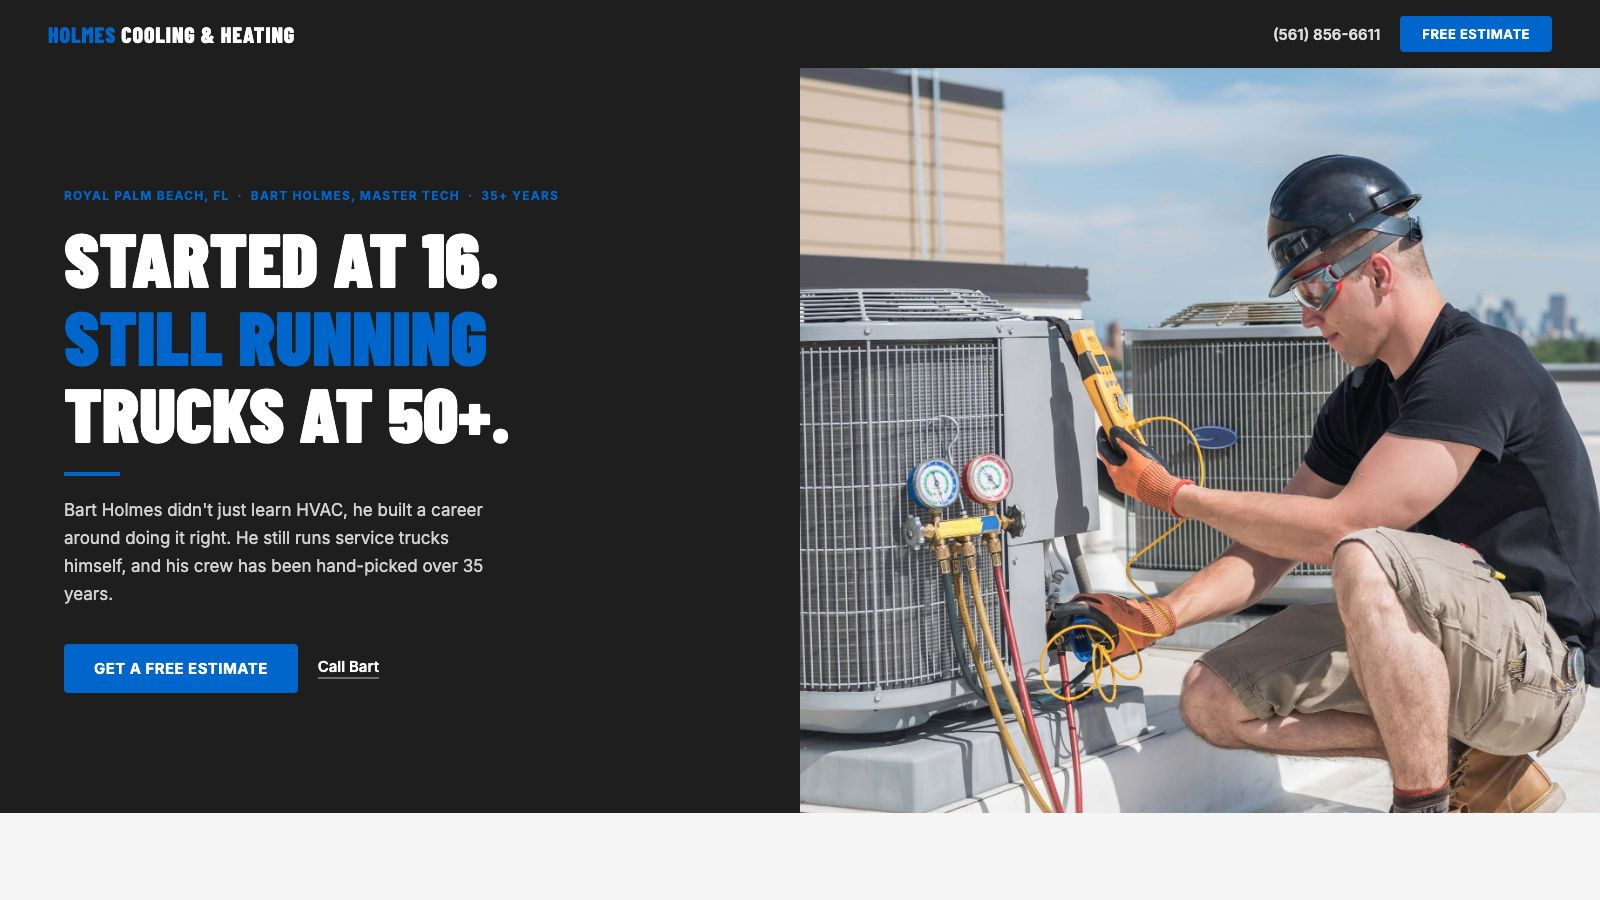
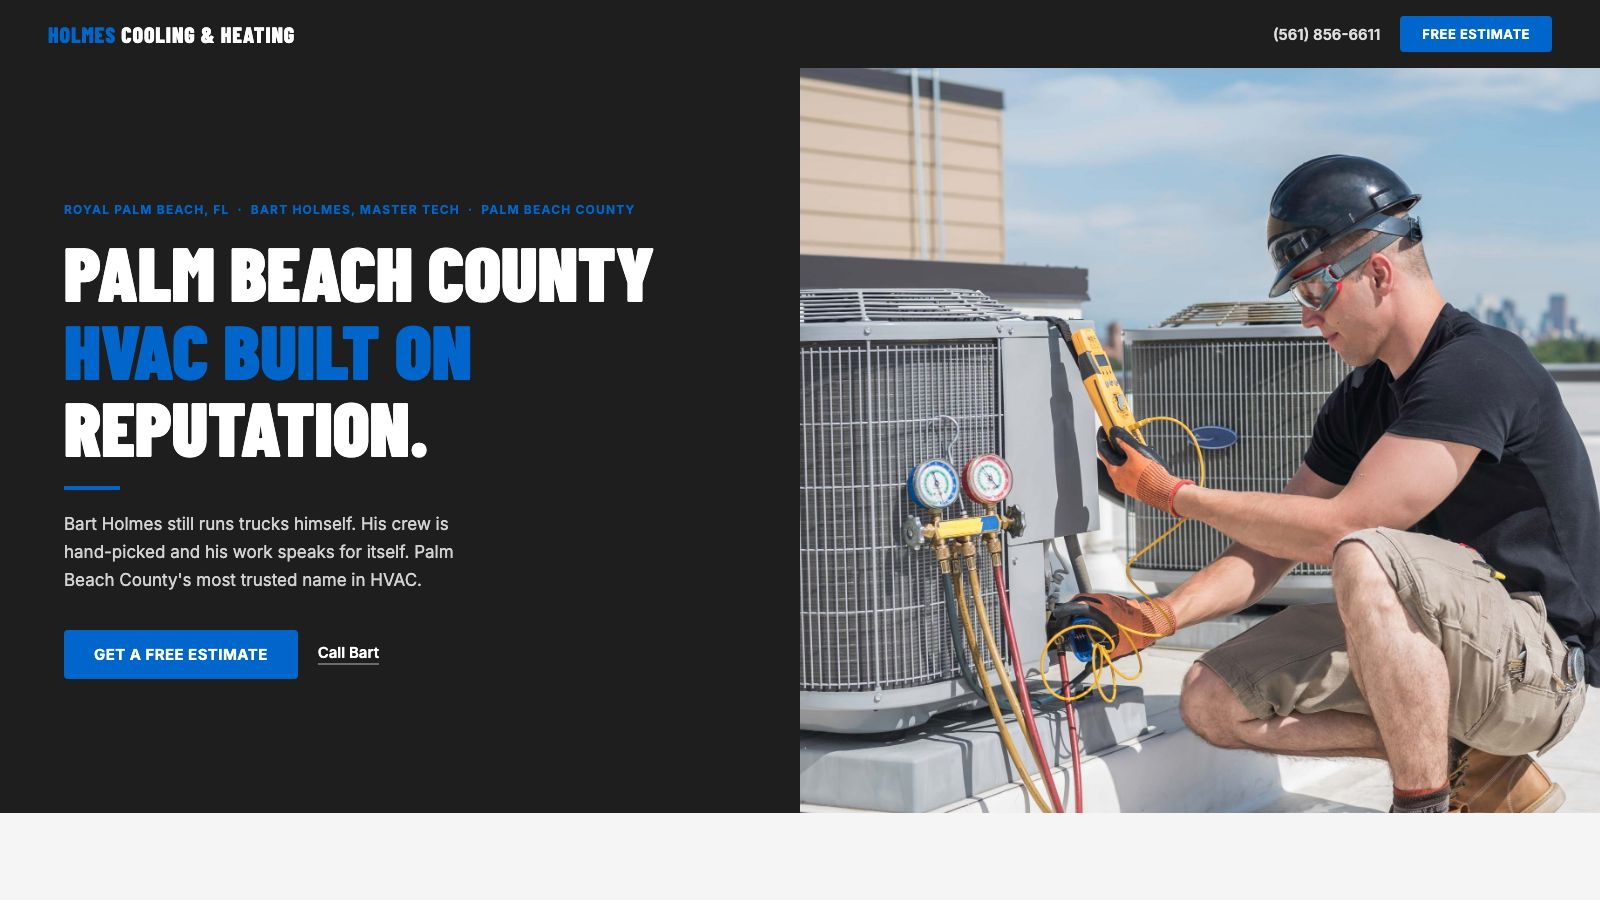
Redo 4 HVAC heroes: clean copy (no review counts/ages), full-height viewport, updated trust bars

Changed region(s): [[0.0312, 0.1867, 0.4062, 0.7778]]

diff --git a/p/holmes-cooling-heating/index.html b/p/holmes-cooling-heating/index.html
@@ -3,7 +3,7 @@
 <head>
   <meta charset="UTF-8">
   <meta name="viewport" content="width=device-width, initial-scale=1.0">
-  <title>Holmes Cooling & Heating | Royal Palm Beach, FL | 35+ Years HVAC Service</title>
+  <title>Holmes Cooling & Heating | Royal Palm Beach, FL | HVAC Service</title>
   <link rel="preconnect" href="https://fonts.googleapis.com">
   <link rel="preconnect" href="https://fonts.gstatic.com" crossorigin>
   <link rel="preload" as="style" href="https://fonts.googleapis.com/css2?family=Barlow+Condensed:wght@400;600;700;800;900&family=Inter:wght@400;500;600;700&display=swap">
@@ -31,7 +31,7 @@
     .nav-phone { color: rgba(255,255,255,0.85); font-size: 15px; font-weight: 600; text-decoration: none; }
     .nav-cta { background: var(--blue); color: var(--white); font-weight: 700; font-size: 13px; padding: 10px 22px; border-radius: 4px; text-decoration: none; text-transform: uppercase; letter-spacing: 0.04em; }
 
-    .hero { display: grid; grid-template-columns: 1fr 1fr; min-height: calc(100vh - 68px); max-height: 832px; }
+    .hero { display: grid; grid-template-columns: 1fr 1fr; height: calc(100vh - 68px); }
     .hero-text { display: flex; flex-direction: column; justify-content: center; padding: 64px 52px 64px 64px; background: var(--charcoal); }
     .hero-eyebrow { font-size: 12px; font-weight: 700; letter-spacing: 0.1em; text-transform: uppercase; color: var(--blue); margin-bottom: 16px; }
     .hero-h1 { font-family: 'Barlow Condensed', sans-serif; font-size: clamp(50px, 5vw, 76px); font-weight: 900; line-height: 1.02; color: var(--white); margin-bottom: 20px; text-transform: uppercase; }
@@ -48,12 +48,12 @@
     .trust-bar { background: var(--blue); display: grid; grid-template-columns: repeat(4, 1fr); }
     .trust-item { padding: 26px 28px; text-align: center; border-right: 1px solid rgba(255,255,255,0.2); }
     .trust-item:last-child { border-right: none; }
-    .trust-number { font-family: 'Barlow Condensed', sans-serif; font-size: 38px; font-weight: 900; color: var(--white); line-height: 1; margin-bottom: 4px; }
+    .trust-number { font-family: 'Barlow Condensed', sans-serif; font-size: 30px; font-weight: 900; color: var(--white); line-height: 1; margin-bottom: 4px; }
     .trust-label { font-size: 11px; font-weight: 700; letter-spacing: 0.08em; text-transform: uppercase; color: rgba(255,255,255,0.8); }
 
     @media (max-width: 768px) {
       nav { padding: 0 20px; }
-      .hero { grid-template-columns: 1fr; min-height: auto; max-height: none; }
+      .hero { grid-template-columns: 1fr; height: auto; min-height: 100vh; }
       .hero-text { padding: 48px 24px 32px; }
       .hero-img { height: 280px; }
       .trust-bar { grid-template-columns: repeat(2, 1fr); }
@@ -72,11 +72,11 @@
 
 <section class="hero">
   <div class="hero-text">
-    <div class="hero-eyebrow">Royal Palm Beach, FL &nbsp;·&nbsp; Bart Holmes, Master Tech &nbsp;·&nbsp; 35+ Years</div>
-    <h1 class="hero-h1">Started at 16.<br><em>Still Running</em><br>Trucks at 50+.</h1>
+    <div class="hero-eyebrow">Royal Palm Beach, FL &nbsp;·&nbsp; Bart Holmes, Master Tech &nbsp;·&nbsp; Palm Beach County</div>
+    <h1 class="hero-h1">Palm Beach County<br><em>HVAC Built on</em><br>Reputation.</h1>
     <div class="hero-rule"></div>
     <p class="hero-sub">
-      Bart Holmes didn't just learn HVAC, he built a career around doing it right. He still runs service trucks himself, and his crew has been hand-picked over 35 years.
+      Bart Holmes still runs trucks himself. His crew is hand-picked and his work speaks for itself. Palm Beach County's most trusted name in HVAC.
     </p>
     <div class="hero-actions">
       <a href="tel:5618566611" class="btn-primary">Get a Free Estimate</a>
@@ -89,9 +89,9 @@
 </section>
 
 <div class="trust-bar">
-  <div class="trust-item"><div class="trust-number">35+</div><div class="trust-label">Years Experience</div></div>
   <div class="trust-item"><div class="trust-number">Master</div><div class="trust-label">Technician Certified</div></div>
-  <div class="trust-item"><div class="trust-number">Palm</div><div class="trust-label">Beach County Local</div></div>
+  <div class="trust-item"><div class="trust-number">Owner</div><div class="trust-label">Still Runs Trucks</div></div>
+  <div class="trust-item"><div class="trust-number">Local</div><div class="trust-label">Palm Beach County</div></div>
   <div class="trust-item"><div class="trust-number">100%</div><div class="trust-label">Licensed &amp; Insured</div></div>
 </div>
 

diff --git a/p/helena-air-conditioning/index.html b/p/helena-air-conditioning/index.html
@@ -3,7 +3,7 @@
 <head>
   <meta charset="UTF-8">
   <meta name="viewport" content="width=device-width, initial-scale=1.0">
-  <title>Helena Air Conditioning & Heating | Pompano Beach, FL | Owner-Answered AC Service</title>
+  <title>Helena Air Conditioning & Heating | Pompano Beach, FL | Owner-Operated AC Service</title>
   <link rel="preconnect" href="https://fonts.googleapis.com">
   <link rel="preconnect" href="https://fonts.gstatic.com" crossorigin>
   <link rel="preload" as="style" href="https://fonts.googleapis.com/css2?family=Raleway:wght@400;600;700;800;900&family=Inter:wght@400;500;600&display=swap">
@@ -31,7 +31,7 @@
     .nav-phone { color: rgba(255,255,255,0.85); font-size: 15px; font-weight: 600; text-decoration: none; }
     .nav-cta { background: var(--amber); color: var(--white); font-weight: 700; font-size: 13px; padding: 10px 22px; border-radius: 3px; text-decoration: none; text-transform: uppercase; letter-spacing: 0.05em; }
 
-    .hero { display: grid; grid-template-columns: 1fr 1fr; min-height: calc(100vh - 68px); max-height: 832px; }
+    .hero { display: grid; grid-template-columns: 1fr 1fr; height: calc(100vh - 68px); }
     .hero-text { display: flex; flex-direction: column; justify-content: center; padding: 64px 52px 64px 64px; background: var(--ivory); }
     .hero-eyebrow { font-family: 'Raleway', sans-serif; font-size: 12px; font-weight: 700; letter-spacing: 0.12em; text-transform: uppercase; color: var(--burgundy); opacity: 0.55; margin-bottom: 16px; }
     .hero-h1 { font-family: 'Raleway', sans-serif; font-size: clamp(42px, 4.2vw, 64px); font-weight: 900; line-height: 1.08; color: var(--burgundy); margin-bottom: 20px; }
@@ -49,12 +49,12 @@
     .trust-bar { background: var(--burgundy); display: grid; grid-template-columns: repeat(4, 1fr); }
     .trust-item { padding: 26px 28px; text-align: center; border-right: 1px solid rgba(255,255,255,0.1); }
     .trust-item:last-child { border-right: none; }
-    .trust-number { font-family: 'Raleway', sans-serif; font-size: 36px; font-weight: 900; color: var(--amber); line-height: 1; margin-bottom: 4px; }
+    .trust-number { font-family: 'Raleway', sans-serif; font-size: 28px; font-weight: 900; color: var(--amber); line-height: 1; margin-bottom: 4px; }
     .trust-label { font-size: 11px; font-weight: 700; letter-spacing: 0.08em; text-transform: uppercase; color: rgba(255,255,255,0.65); }
 
     @media (max-width: 768px) {
       nav { padding: 0 20px; }
-      .hero { grid-template-columns: 1fr; min-height: auto; max-height: none; }
+      .hero { grid-template-columns: 1fr; height: auto; min-height: 100vh; }
       .hero-text { padding: 48px 24px 32px; }
       .hero-img { height: 280px; }
       .trust-bar { grid-template-columns: repeat(2, 1fr); }
@@ -74,10 +74,10 @@
 <section class="hero">
   <div class="hero-text">
     <div class="hero-eyebrow">Pompano Beach, FL &nbsp;·&nbsp; Owner Operated &nbsp;·&nbsp; Broward County</div>
-    <h1 class="hero-h1">Pompano's AC<br><em>You Can Actually</em><br>Get on the Phone</h1>
+    <h1 class="hero-h1">Pompano Beach<br><em>AC &amp; Heating</em><br>Owner Operated.</h1>
     <div class="hero-divider"></div>
     <p class="hero-sub">
-      The owner picks up every call personally. Customers mention it in review after review because it matters. Same-day response, transparent pricing, no surprises.
+      The owner picks up every call personally. Same-day response, transparent pricing, no surprises. That's why customers keep coming back.
     </p>
     <div class="hero-actions">
       <a href="tel:7543677237" class="btn-primary">Get a Free Estimate</a>
@@ -90,9 +90,9 @@
 </section>
 
 <div class="trust-bar">
-  <div class="trust-item"><div class="trust-number">5.0★</div><div class="trust-label">HomeAdvisor</div></div>
-  <div class="trust-item"><div class="trust-number">A+</div><div class="trust-label">BBB Rating</div></div>
-  <div class="trust-item"><div class="trust-number">3</div><div class="trust-label">Counties Served</div></div>
+  <div class="trust-item"><div class="trust-number">Owner</div><div class="trust-label">Operated</div></div>
+  <div class="trust-item"><div class="trust-number">Same</div><div class="trust-label">Day Service</div></div>
+  <div class="trust-item"><div class="trust-number">Free</div><div class="trust-label">Estimates</div></div>
   <div class="trust-item"><div class="trust-number">100%</div><div class="trust-label">Licensed &amp; Insured</div></div>
 </div>
 

diff --git a/p/mechanical-cooling-ac/index.html b/p/mechanical-cooling-ac/index.html
@@ -31,7 +31,7 @@
     .nav-phone { color: rgba(255,255,255,0.85); font-size: 15px; font-weight: 600; text-decoration: none; }
     .nav-cta { background: var(--teal); color: var(--gunmetal); font-weight: 700; font-size: 13px; padding: 10px 22px; border-radius: 4px; text-decoration: none; text-transform: uppercase; letter-spacing: 0.04em; }
 
-    .hero { display: grid; grid-template-columns: 1fr 1fr; min-height: calc(100vh - 68px); max-height: 832px; }
+    .hero { display: grid; grid-template-columns: 1fr 1fr; height: calc(100vh - 68px); }
     .hero-text { display: flex; flex-direction: column; justify-content: center; padding: 64px 52px 64px 64px; background: var(--gunmetal); }
     .hero-eyebrow { font-size: 12px; font-weight: 700; letter-spacing: 0.1em; text-transform: uppercase; color: var(--teal); margin-bottom: 16px; }
     .hero-h1 { font-family: 'Nunito Sans', sans-serif; font-size: clamp(44px, 4.4vw, 68px); font-weight: 900; line-height: 1.06; color: var(--white); margin-bottom: 20px; }
@@ -48,12 +48,12 @@
     .trust-bar { background: var(--teal); display: grid; grid-template-columns: repeat(4, 1fr); }
     .trust-item { padding: 26px 28px; text-align: center; border-right: 1px solid rgba(45,49,66,0.2); }
     .trust-item:last-child { border-right: none; }
-    .trust-number { font-family: 'Nunito Sans', sans-serif; font-size: 36px; font-weight: 900; color: var(--gunmetal); line-height: 1; margin-bottom: 4px; }
+    .trust-number { font-family: 'Nunito Sans', sans-serif; font-size: 28px; font-weight: 900; color: var(--gunmetal); line-height: 1; margin-bottom: 4px; }
     .trust-label { font-size: 11px; font-weight: 700; letter-spacing: 0.08em; text-transform: uppercase; color: rgba(45,49,66,0.75); }
 
     @media (max-width: 768px) {
       nav { padding: 0 20px; }
-      .hero { grid-template-columns: 1fr; min-height: auto; max-height: none; }
+      .hero { grid-template-columns: 1fr; height: auto; min-height: 100vh; }
       .hero-text { padding: 48px 24px 32px; }
       .hero-img { height: 280px; }
       .trust-bar { grid-template-columns: repeat(2, 1fr); }
@@ -73,10 +73,10 @@
 <section class="hero">
   <div class="hero-text">
     <div class="hero-eyebrow">Margate, FL &nbsp;·&nbsp; Broward County &nbsp;·&nbsp; 24-Hour Service</div>
-    <h1 class="hero-h1">5.0 Stars.<br><em>51 Times.</em><br>No Exceptions.</h1>
+    <h1 class="hero-h1">Residential &amp; Commercial<br><em>HVAC Done</em><br>Right the First Time.</h1>
     <div class="hero-rule"></div>
     <p class="hero-sub">
-      Five stars across every single review. Residential, commercial, and complex mechanical systems done right the first time. South Florida's standard for precise HVAC work.
+      Residential, commercial, and complex mechanical systems handled with precision. South Florida's standard for HVAC work that actually lasts.
     </p>
     <div class="hero-actions">
       <a href="tel:9543972527" class="btn-primary">Get a Free Estimate</a>
@@ -89,9 +89,9 @@
 </section>
 
 <div class="trust-bar">
-  <div class="trust-item"><div class="trust-number">5.0★</div><div class="trust-label">Google Rating</div></div>
-  <div class="trust-item"><div class="trust-number">51</div><div class="trust-label">Verified Reviews</div></div>
   <div class="trust-item"><div class="trust-number">24/7</div><div class="trust-label">Emergency Service</div></div>
+  <div class="trust-item"><div class="trust-number">Free</div><div class="trust-label">Estimates</div></div>
+  <div class="trust-item"><div class="trust-number">Local</div><div class="trust-label">Broward County</div></div>
   <div class="trust-item"><div class="trust-number">100%</div><div class="trust-label">Licensed &amp; Insured</div></div>
 </div>
 

diff --git a/p/gmc-air-conditioning/index.html b/p/gmc-air-conditioning/index.html
@@ -31,7 +31,7 @@
     .nav-phone { color: rgba(255,255,255,0.85); font-size: 15px; font-weight: 600; text-decoration: none; }
     .nav-cta { background: var(--amber); color: var(--teal); font-weight: 700; font-size: 13px; padding: 10px 22px; border-radius: 4px; text-decoration: none; text-transform: uppercase; letter-spacing: 0.04em; }
 
-    .hero { display: grid; grid-template-columns: 1fr 1fr; min-height: calc(100vh - 68px); max-height: 832px; }
+    .hero { display: grid; grid-template-columns: 1fr 1fr; height: calc(100vh - 68px); }
     .hero-text { display: flex; flex-direction: column; justify-content: center; padding: 64px 52px 64px 64px; background: var(--teal); }
     .hero-eyebrow { font-size: 12px; font-weight: 700; letter-spacing: 0.1em; text-transform: uppercase; color: var(--amber); margin-bottom: 16px; }
     .hero-h1 { font-family: 'DM Sans', sans-serif; font-size: clamp(44px, 4.4vw, 68px); font-weight: 800; line-height: 1.06; color: var(--white); margin-bottom: 20px; }
@@ -48,12 +48,12 @@
     .trust-bar { background: var(--amber); display: grid; grid-template-columns: repeat(4, 1fr); }
     .trust-item { padding: 26px 28px; text-align: center; border-right: 1px solid rgba(26,61,58,0.2); }
     .trust-item:last-child { border-right: none; }
-    .trust-number { font-family: 'DM Sans', sans-serif; font-size: 36px; font-weight: 800; color: var(--teal); line-height: 1; margin-bottom: 4px; }
+    .trust-number { font-family: 'DM Sans', sans-serif; font-size: 28px; font-weight: 800; color: var(--teal); line-height: 1; margin-bottom: 4px; }
     .trust-label { font-size: 11px; font-weight: 700; letter-spacing: 0.08em; text-transform: uppercase; color: rgba(26,61,58,0.75); }
 
     @media (max-width: 768px) {
       nav { padding: 0 20px; }
-      .hero { grid-template-columns: 1fr; min-height: auto; max-height: none; }
+      .hero { grid-template-columns: 1fr; height: auto; min-height: 100vh; }
       .hero-text { padding: 48px 24px 32px; }
       .hero-img { height: 280px; }
       .trust-bar { grid-template-columns: repeat(2, 1fr); }
@@ -73,10 +73,10 @@
 <section class="hero">
   <div class="hero-text">
     <div class="hero-eyebrow">Pompano Beach, FL &nbsp;·&nbsp; Skip Farinhas &nbsp;·&nbsp; HVAC Since 1977</div>
-    <h1 class="hero-h1">In HVAC<br><em>Since 1977.</em><br>390 Reviews Agree.</h1>
+    <h1 class="hero-h1">Pompano's HVAC<br><em>Done Right</em><br>Since 1977.</h1>
     <div class="hero-rule"></div>
     <p class="hero-sub">
-      Skip Farinhas has spent nearly 50 years mastering HVAC. His NATE-certified crew handles what other companies walk away from. 4.66 stars across 390 reviews.
+      Skip Farinhas has spent nearly 50 years mastering HVAC. His NATE-certified crew handles what other companies walk away from.
     </p>
     <div class="hero-actions">
       <a href="tel:9549735980" class="btn-primary">Get a Free Estimate</a>
@@ -89,9 +89,9 @@
 </section>
 
 <div class="trust-bar">
-  <div class="trust-item"><div class="trust-number">390</div><div class="trust-label">Google Reviews</div></div>
-  <div class="trust-item"><div class="trust-number">4.66★</div><div class="trust-label">Average Rating</div></div>
   <div class="trust-item"><div class="trust-number">NATE</div><div class="trust-label">Certified Techs</div></div>
+  <div class="trust-item"><div class="trust-number">1977</div><div class="trust-label">Serving South Florida</div></div>
+  <div class="trust-item"><div class="trust-number">Local</div><div class="trust-label">Broward County</div></div>
   <div class="trust-item"><div class="trust-number">100%</div><div class="trust-label">Licensed &amp; Insured</div></div>
 </div>
 
